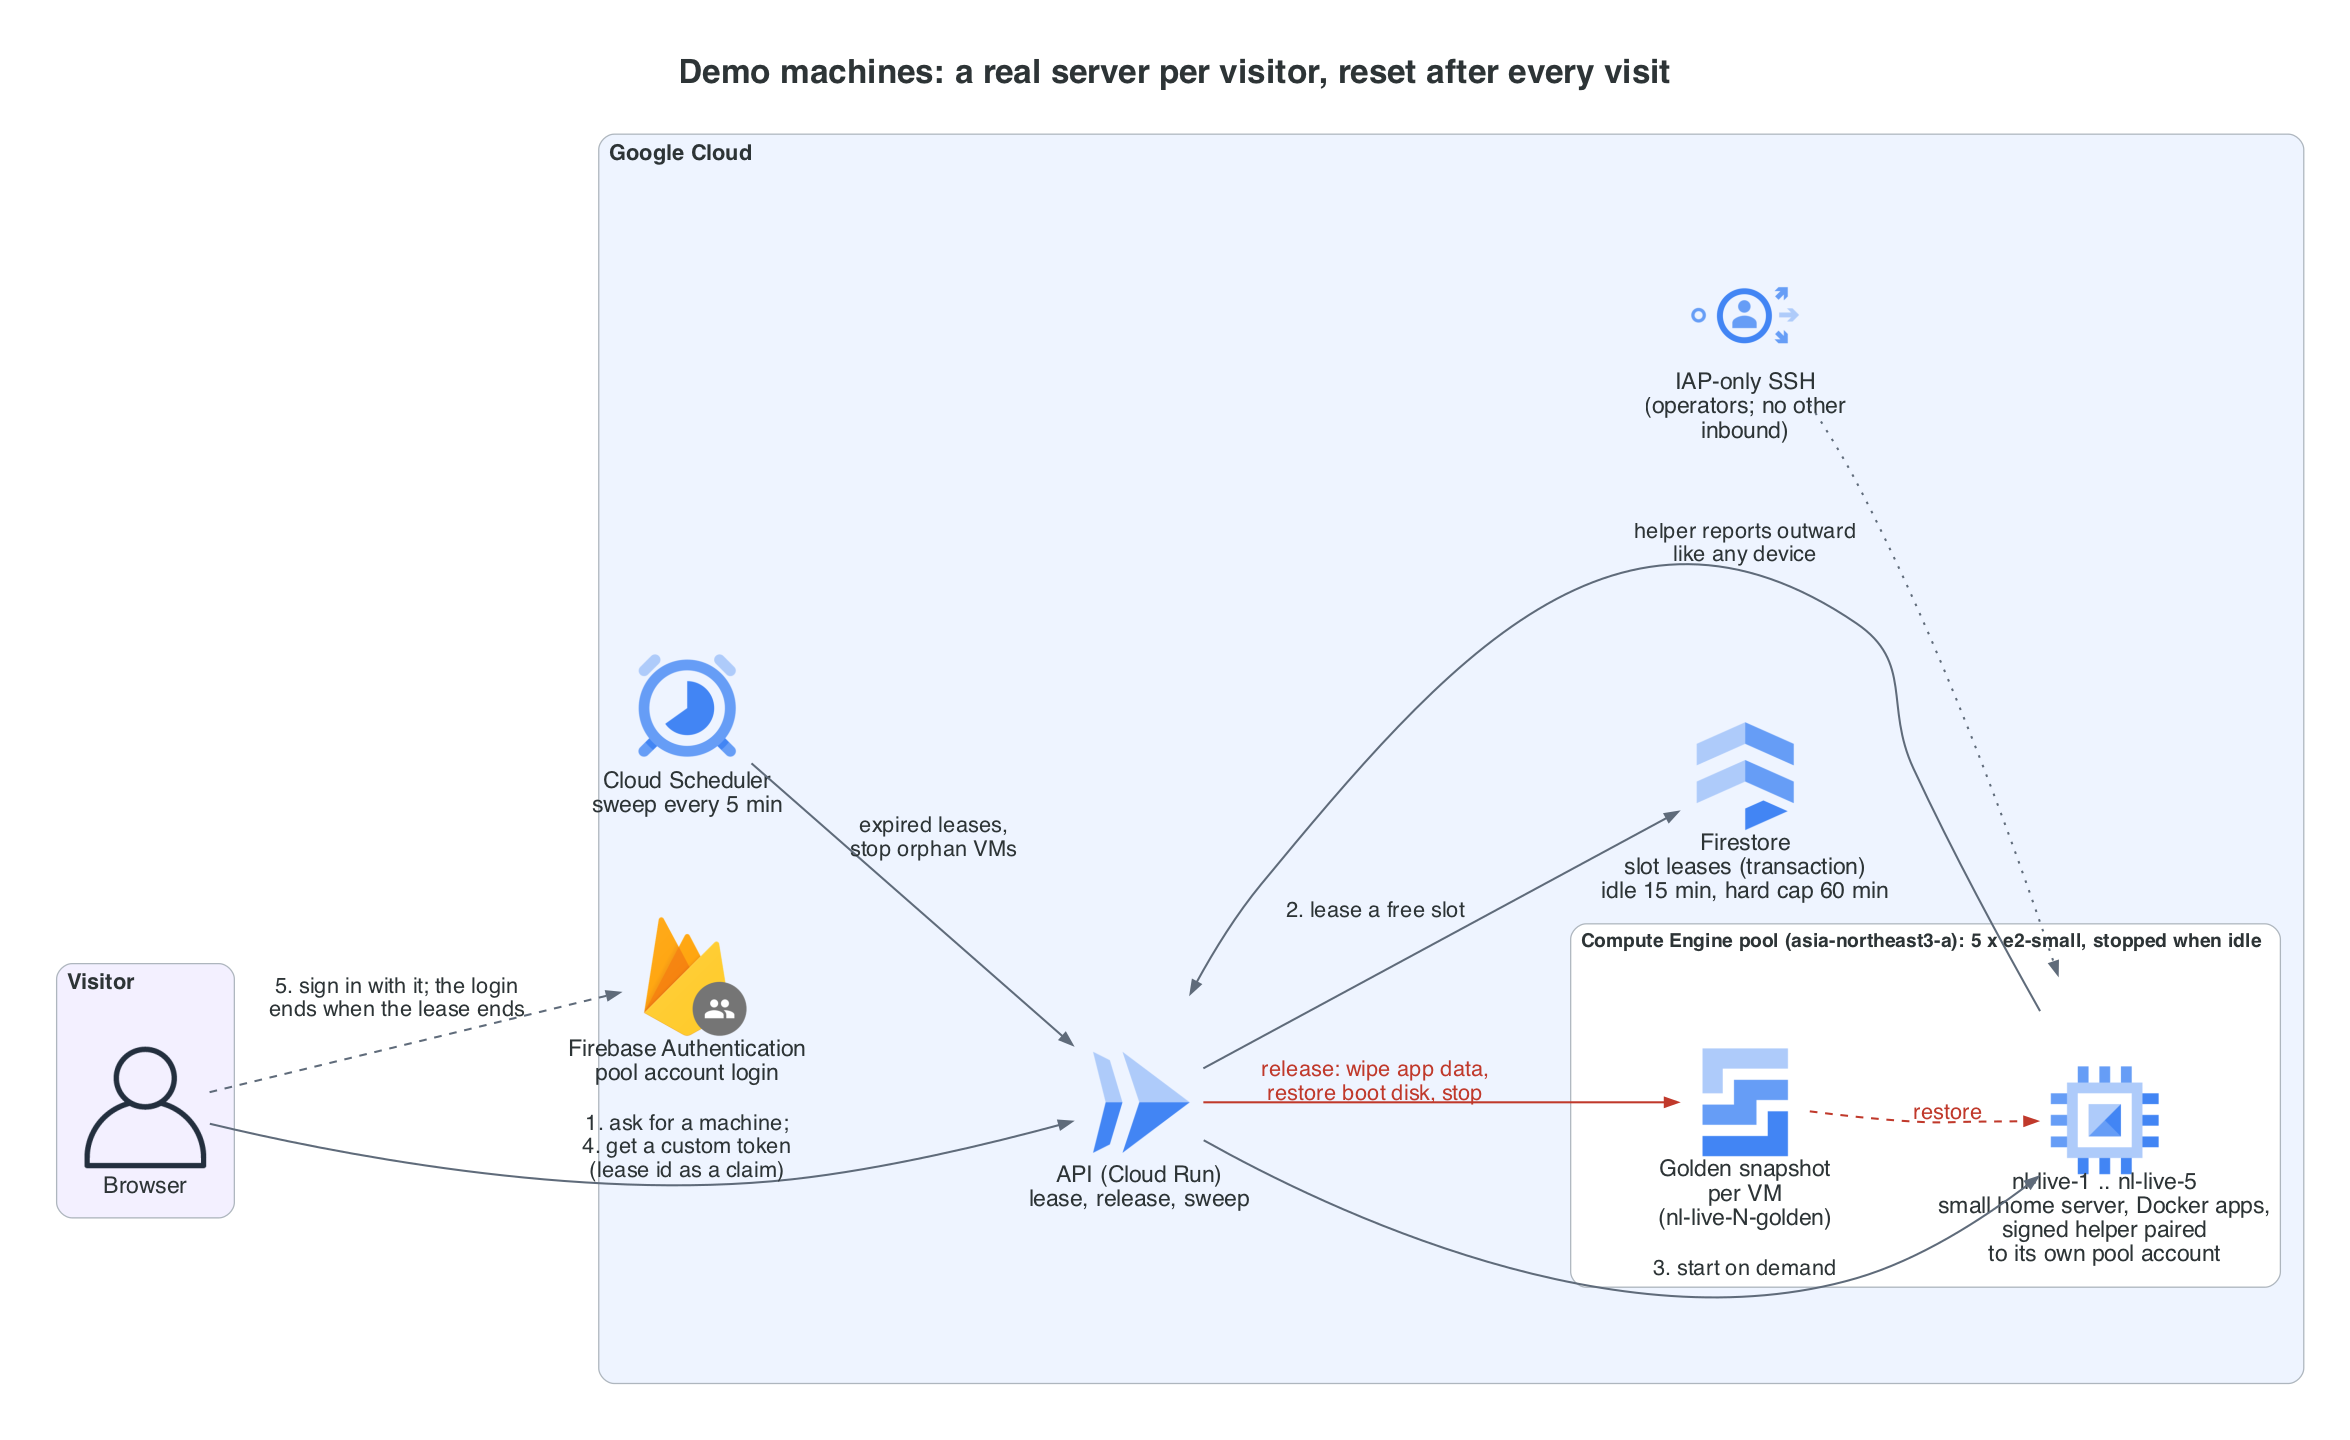
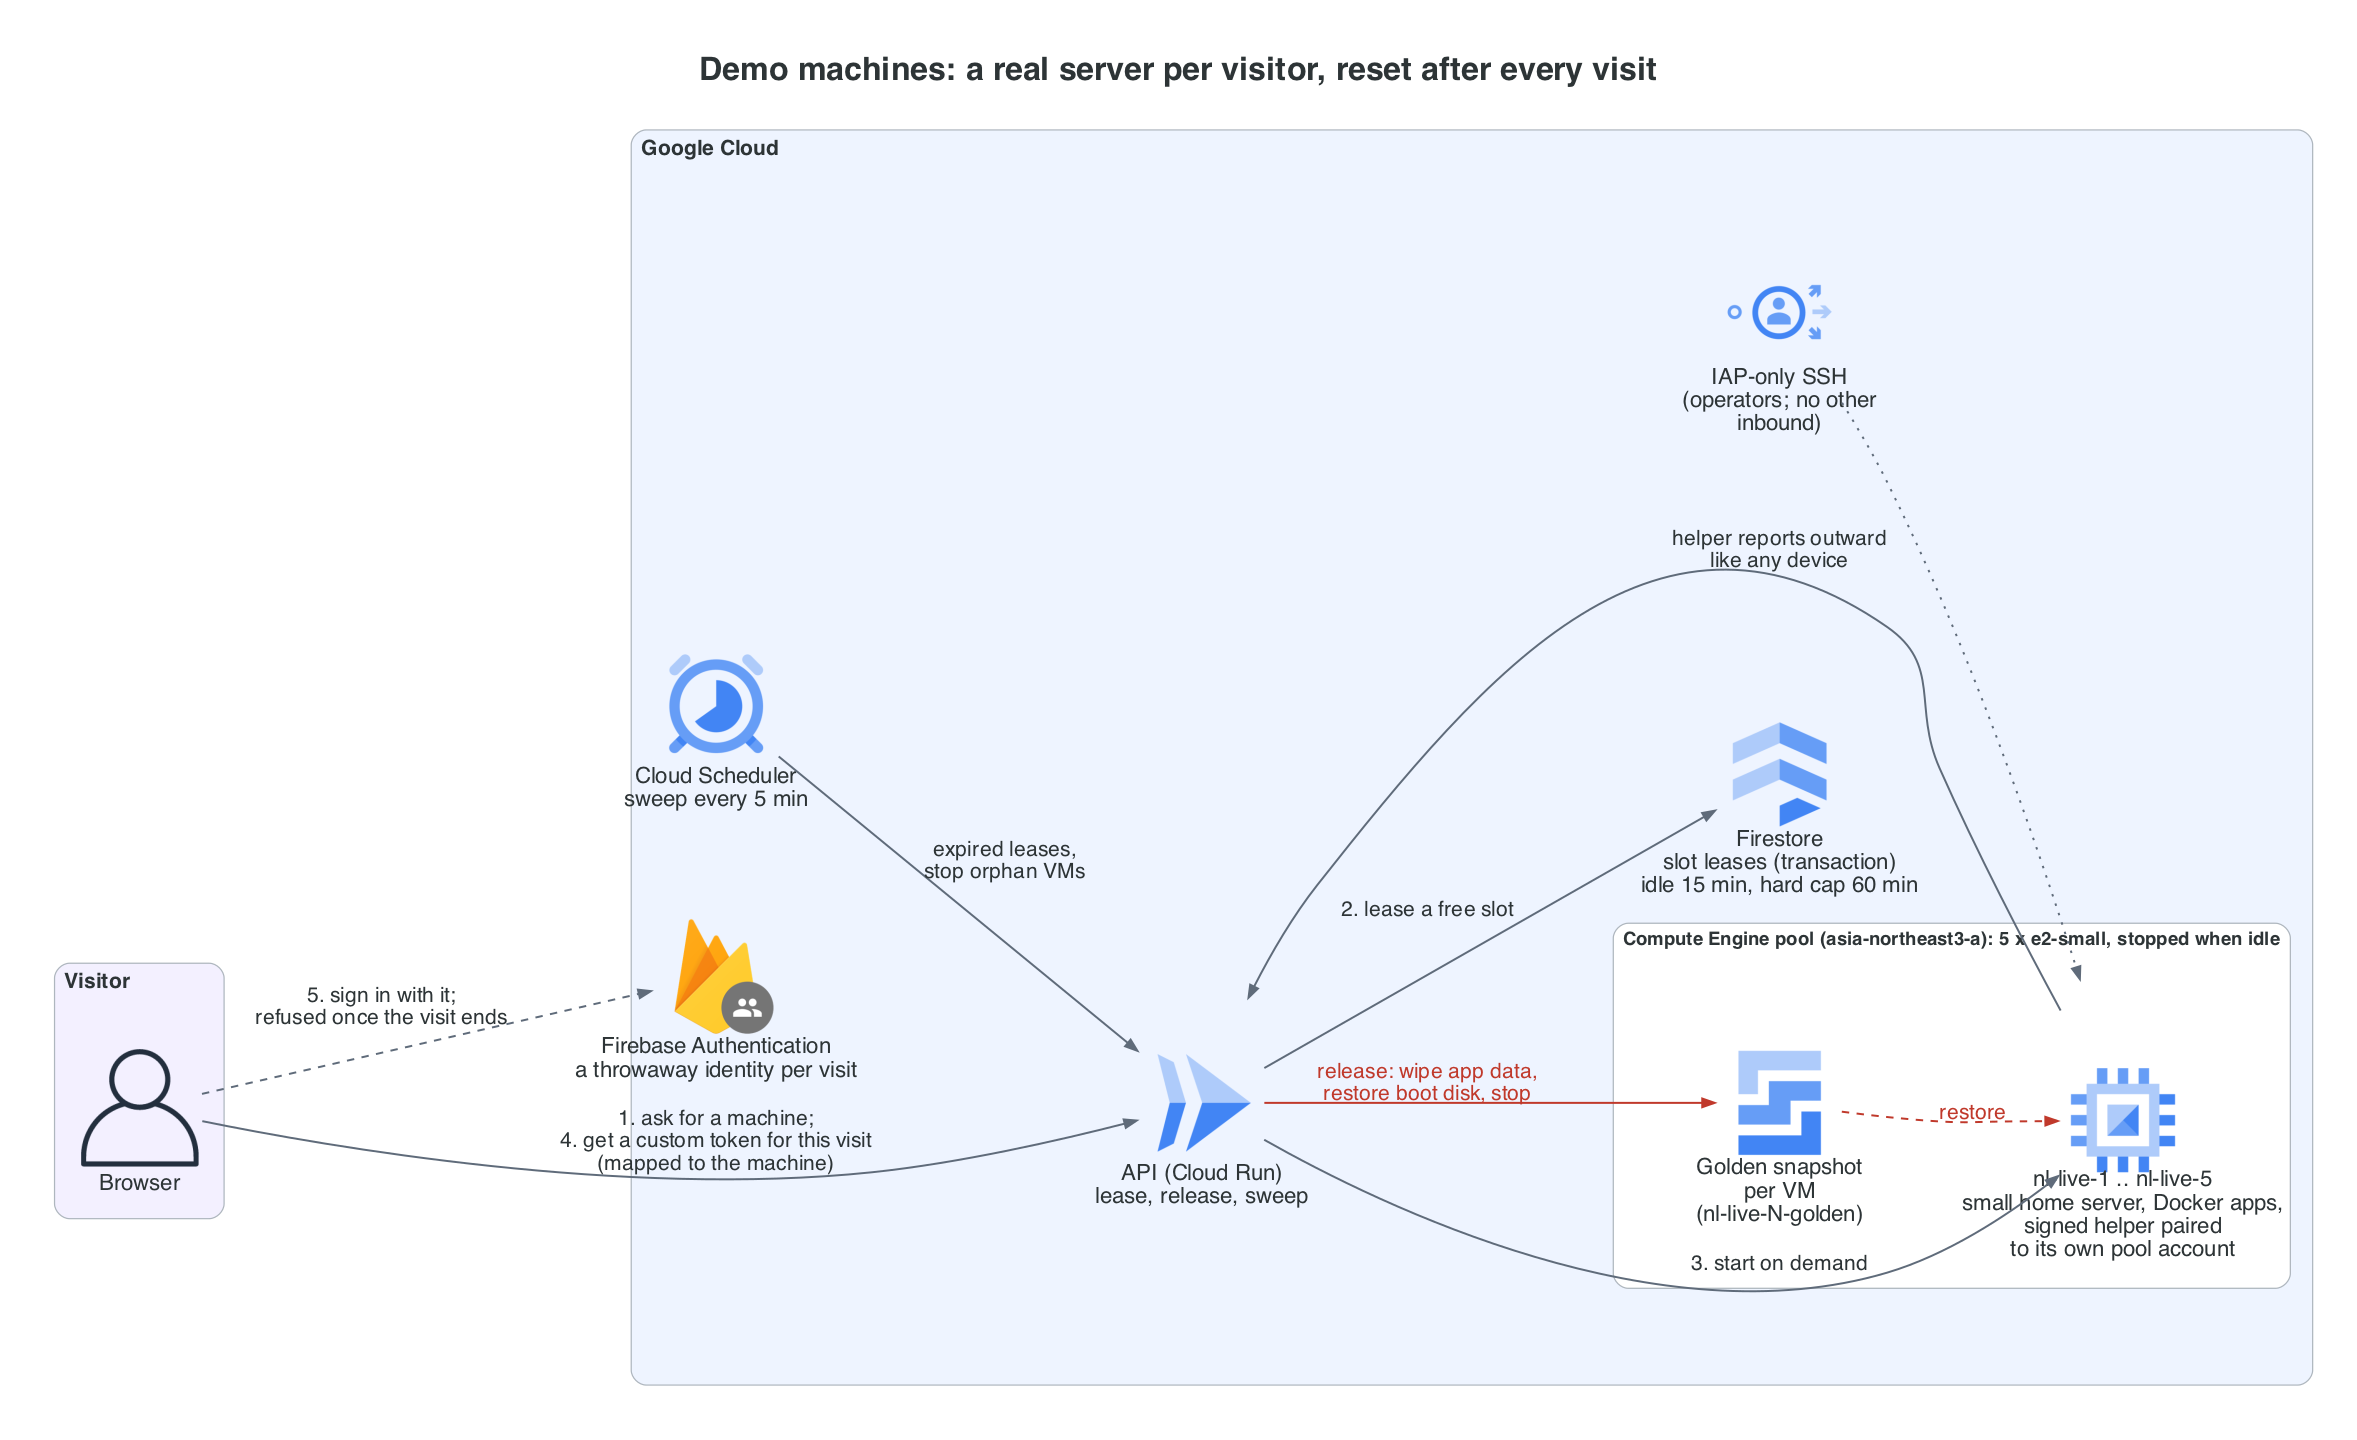
README: demo machines for judges, with the diagram updated to per-visit identities

diff --git a/docs/architecture/live_demo.py b/docs/architecture/live_demo.py
@@ -36,7 +36,7 @@ with Diagram("", filename=str(OUT), outformat="png", show=False, direction="LR",
         visitor = User("Browser")
 
     with Cluster("Google Cloud", graph_attr={**CLUSTER, "bgcolor": "#eef4ff"}):
-        auth = Authentication("Firebase Authentication\npool account login")
+        auth = Authentication("Firebase Authentication\na throwaway identity per visit")
         api = Run("API (Cloud Run)\nlease, release, sweep")
         db = Firestore("Firestore\nslot leases (transaction)\nidle 15 min, hard cap 60 min")
         sweep = Scheduler("Cloud Scheduler\nsweep every 5 min")
@@ -45,10 +45,10 @@ with Diagram("", filename=str(OUT), outformat="png", show=False, direction="LR",
             golden = PersistentDisk("Golden snapshot\nper VM\n(nl-live-N-golden)")
         iap = IAP("IAP-only SSH\n(operators; no other\ninbound)")
 
-    visitor >> E(label="1. ask for a machine;\n4. get a custom token\n(lease id as a claim)") >> api
+    visitor >> E(label="1. ask for a machine;\n4. get a custom token for this visit\n(mapped to the machine)") >> api
     api >> E(label="2. lease a free slot") >> db
     api >> E(label="3. start on demand") >> vms
-    visitor >> E(label="5. sign in with it; the login\nends when the lease ends", style="dashed") >> auth
+    visitor >> E(label="5. sign in with it;\nrefused once the visit ends", style="dashed") >> auth
     vms >> E(label="helper reports outward\nlike any device", constraint="false") >> api
     api >> E(label="release: wipe app data,\nrestore boot disk, stop", color=RESET, fontcolor=RESET) >> golden
     golden >> E(label="restore", color=RESET, fontcolor=RESET, style="dashed") >> vms

diff --git a/README.md b/README.md
@@ -115,6 +115,41 @@ flowchart LR
     H -.->|"fixed jobs, local allow-list"| S
 ```
 
+### Demo machines for judges
+
+Each judge who picks the live demo gets their own real Linux VM with real apps in containers, started on demand and
+restored from a clean disk copy after every visit, so nothing one judge does reaches the next. Each visit signs in as
+its own throwaway identity that the server maps to the machine; idle visits end after 15 minutes, every visit after 60,
+and a five-minute sweep stops any machine without a visit. Measured: ready in about a minute; "Start fresh" in about
+two. The picture: [`docs/architecture/live_demo.png`](docs/architecture/live_demo.png).
+
+```mermaid
+%% Demo machine pool (source: api/src/nightlight_api/live.py, scripts/live_pool/).
+flowchart LR
+    V["Visitor's browser"]
+    subgraph gcp["Google Cloud"]
+        A["Cloud Run: API<br/>lease, release, sweep"]
+        FS[("Firestore<br/>slot leases (transaction)<br/>idle 15 min, hard cap 60 min")]
+        AUTH["Firebase Authentication<br/>a throwaway identity per visit"]
+        SCH["Cloud Scheduler<br/>sweep every 5 min"]
+        IAP["IAP-only SSH<br/>(operators; no other inbound)"]
+        subgraph pool["Compute Engine pool: 5 x e2-small, stopped when idle"]
+            VM["nl-live-1 .. nl-live-5<br/>small home server, Docker apps,<br/>signed helper paired to its own pool account"]
+            G[("Golden snapshot per VM")]
+        end
+    end
+    V -->|"1. ask for a machine"| A
+    A -->|"2. lease a free slot"| FS
+    A -->|"3. start on demand"| VM
+    A -->|"4. custom token for this visit<br/>(mapped to the machine, lease id as a claim)"| V
+    V -.->|"5. sign in; refused once the visit ends"| AUTH
+    VM -->|"helper reports outward like any device"| A
+    A -->|"release: wipe app data,<br/>restore boot disk, stop"| G
+    G -.->|"restore"| VM
+    SCH -->|"expired leases, stop orphan VMs"| A
+    IAP -.-> VM
+```
+
 How the pieces talk:
 
 - **Browser to API.** Every `/api/*` call carries a Firebase ID token. The user id comes only from that verified
